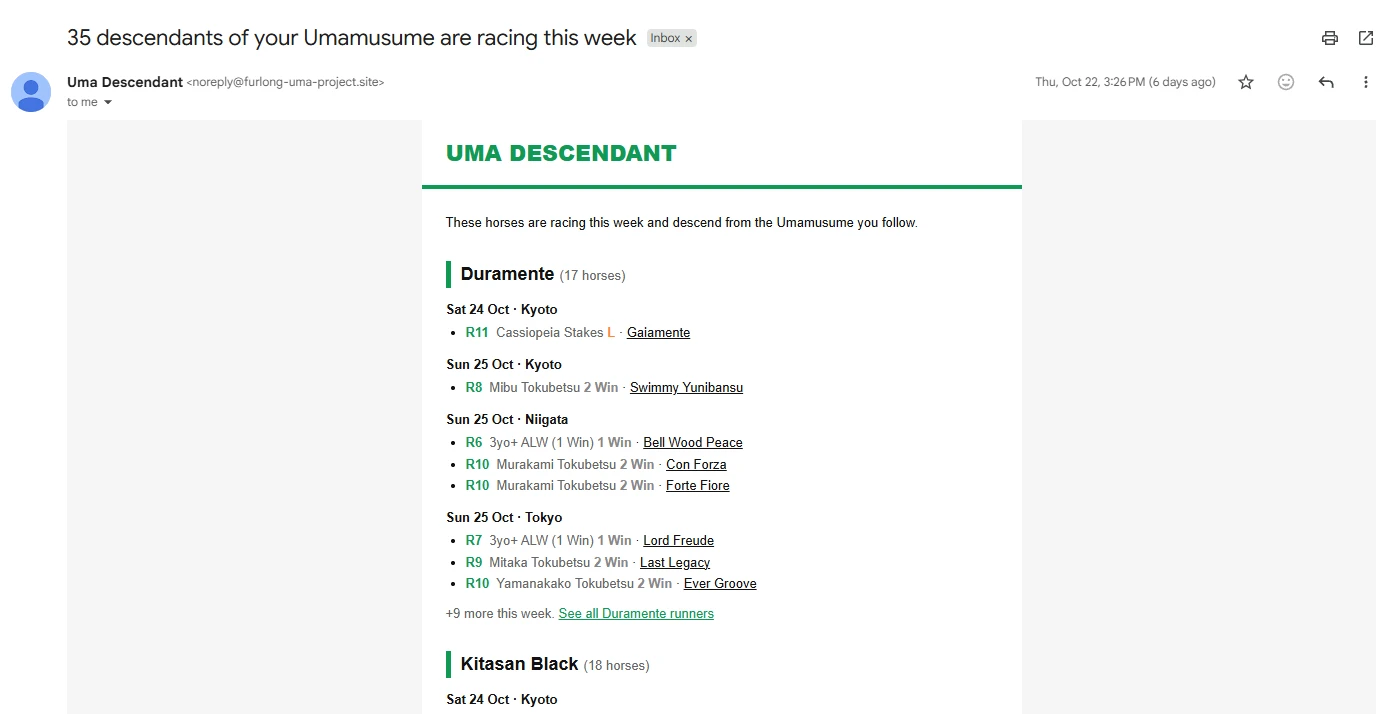
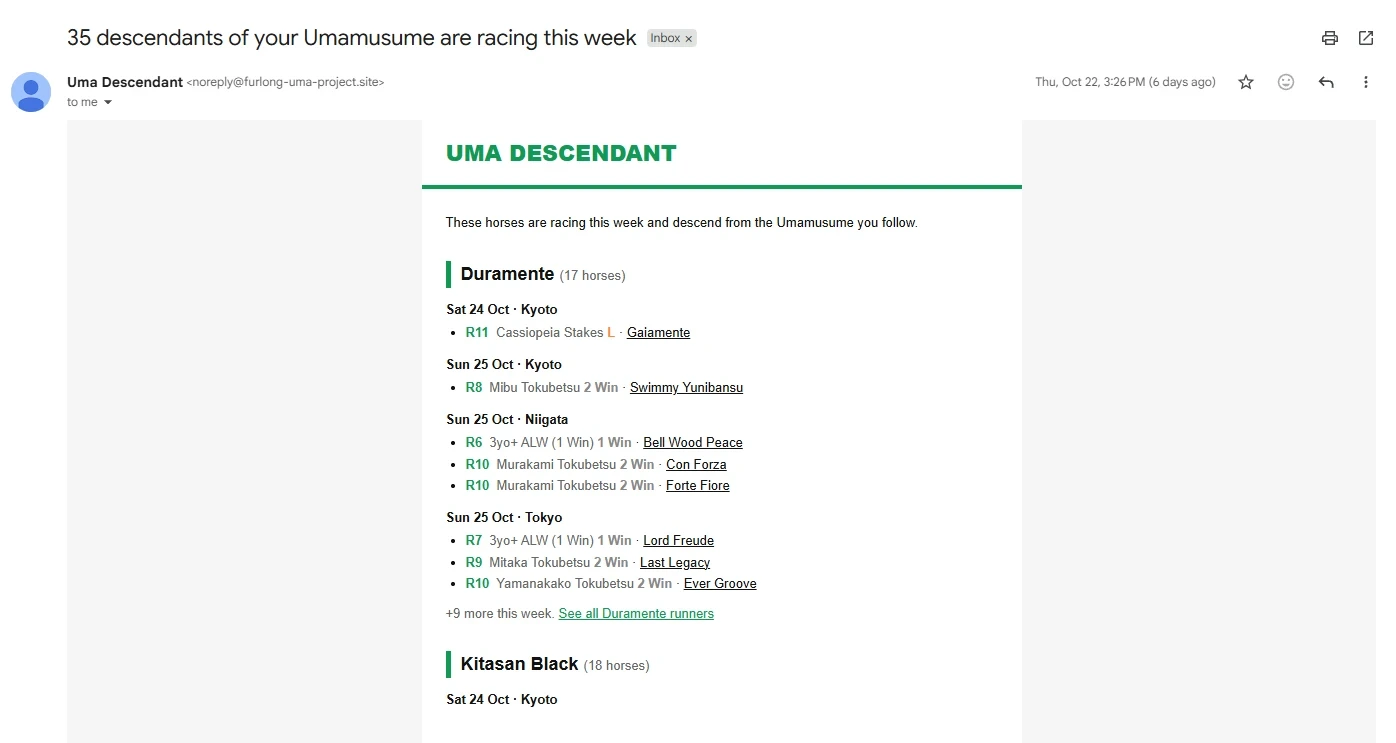
Remove the black bars above and below the screenshot carousels
The screenshots were fitted into a fixed 900x550 frame with object-fit: contain, but they are wider than that, so empty black bars showed above and below them. Reserve a 1.88:1 frame instead, which matches the screenshots, so nothing is cropped and there are no bars. The Following and Email Alert screenshots were much wider, so extend each one downward with its own background color to match; their text is untouched.

diff --git a/personal-website/src/assets/styles/project.css b/personal-website/src/assets/styles/project.css
@@ -683,10 +683,13 @@ video {
     }
 }
 
-/* Website screenshots: show the whole image instead of cropping it to the frame */
+/* Website screenshots: size the frame to the image itself, so nothing is cropped and there are no empty bars */
 .project-img.project-img-screenshot {
-    object-fit: contain;
-    background-color: #111;
+    height: auto;
+    min-height: 0;
+    /* All screenshots are about 1.88:1. Reserving that shape keeps the page from jumping as they load. */
+    aspect-ratio: 1.88;
+    object-fit: cover;
 }
 
 
